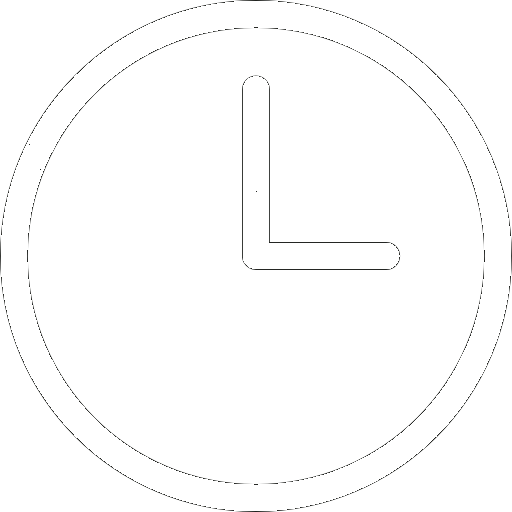
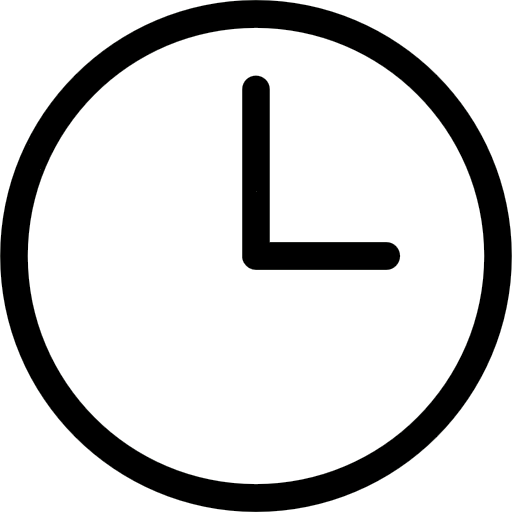
add: adicionando projetos; capi, myscradle

Changed region(s): [[0.0, 0.0, 1.0, 1.0], [0.4688, 0.125, 0.7812, 0.5312]]

diff --git a/src/pages/Home.vue b/src/pages/Home.vue
@@ -6,18 +6,9 @@ import fkIcon from '@/assets/framekore.png'
 import drawIcon from '@/assets/drawIcon.png'
 import bagIcon from '@/assets/bagIcon.png'
 import clockIcon from '@/assets/clockIcon.png'
+import capiIcon from '@/assets/capi.png'
+import mcIcon from '@/assets/myscradle.png'
 import { computed, ref } from 'vue';
-
-// interface Items {
-//     text?: string,
-//     haling?: 'center' | 'start' | 'end',
-//     color?: string | 'black' | 'white' | 'var(--color-text-contrast)' | 'var(--color-text)'
-// }
-
-// interface Title {
-//     text?: string,
-//     color?: string | 'black' | 'white' | 'var(--color-text-contrast)' | 'var(--color-text)'
-// }
 
 interface Project {
     id: string
@@ -38,14 +29,12 @@ const projects: Project[] = [
         id: 'p-01',
         name: 'PantsLife',
         icon: pantsIcon,
-        description: `
-                Meu primeito jogo de Plataforma 2D feito em dois dias para uma GameJam.
-        `,
+        description: "Meu primeito jogo de Plataforma 2D feito em dois dias para uma GameJam.",
         envolvidos: [{ name: 'Fkaique', github: 'Fkaique' }],
         links: [
-            { id: 'l-01', link: 'https://mysteriescradle.itch.io/life-in-pants', title: '<strong>Link 1</strong>: itch.io', },
-            { id: 'l-02', link: 'https://gx.games/pt-br/games/vpdabd/pants-life/', title: '<strong>Link 2</strong>: GXGames', },
-            { id: 'l-03', link: 'https://gx.games/pt-br/games/vpdabd/pants-life/', title: '<strong>Link 3</strong>: Projeto Github', }
+            { id: 'l-01', link: 'https://mysteriescradle.itch.io/life-in-pants', title: '<strong>Link 1</strong>: itch.io' },
+            { id: 'l-02', link: 'https://gx.games/pt-br/games/vpdabd/pants-life/', title: '<strong>Link 2</strong>: GXGames' },
+            { id: 'l-03', link: 'https://github.com/Fkaique', title: '<strong>Link 3</strong>: Github' }
         ]
     },
     {
@@ -100,44 +89,80 @@ const projects: Project[] = [
             { id: 'l-02', link: 'https://github.com/Fkaique/ClockFK/', title: '<strong>Link 2</strong>: Github' }
         ],
     },
+    {
+        id: 'p-06',
+        icon: capiIcon,
+        name: 'Capi JS',
+        description: `plataforma web de educação socioambiental e consumo consciente.`,
+        envolvidos: [
+            { name: 'Grizzlyess', github: 'Grizzlyess' },
+            { name: 'Fkaique', github: 'Fkaique' },
+            { name: 'LevySena', github: 'LevySena' },
+            { name: 'Agliandro', github: 'Agliandro' },
+            { name: 'OViniSA', github: 'OViniSA' }
+        ],
+        links: [
+            { id: 'l-01', link: 'https://github.com/Grizzlyess/Capi_JS', title: '<strong>Link 1</strong>: Github' },
+            { id: 'l-02', link: 'https://Grizzlyess.github.io/Capi_JS', title: '<strong>Link 2</strong>: Capi' }
+        ],
+    },
+    {
+        id: 'p-07',
+        icon: mcIcon,
+        name: 'Mysteries Cradle',
+        description: `plataforma web de um studio de jogos indie e universos originais.`,
+        envolvidos: [
+            { name: 'Fkaique', github: 'Fkaique' },
+            { name: 'OViniSA', github: 'OViniSA' }
+        ],
+        links: [
+            { id: 'l-01', link: 'https://github.com/MysCradle', title: '<strong>Link 1</strong>: Github' },
+            { id: 'l-02', link: 'https://MysCradle.studio', title: '<strong>Link 2</strong>: Mysteries Cradle' }
+        ],
+    },
 ]
 
 const pesquisa = ref('')
 
 const projectsFiltered = computed(() => {
     const termo = pesquisa.value.trim().toLowerCase()
-
     if (!termo) return projects
 
     return projects.filter(project => {
         const nome = project.name.toLowerCase()
         const descricao = project.description.toLowerCase()
 
-        const envolvidos = project.envolvidos?.map(e => ({
-            name: e.name.toLowerCase(),
-            github: e.github.toLowerCase()
-        })) || []
+        const envolvidos = project.envolvidos.map(e =>
+            `${e.name} ${e.github}`.toLowerCase()
+        )
+
+        const links = project.links.map(l =>
+            `${l.title} ${l.link}`.toLowerCase()
+        )
 
         return (
             nome.includes(termo) ||
             descricao.includes(termo) ||
-            envolvidos.some(e =>
-                e.name.includes(termo) ||
-                e.github.includes(termo)
-            )
+            envolvidos.some(e => e.includes(termo)) ||
+            links.some(l => l.includes(termo))
         )
     })
 })
 
-const dateNow = new Date()
+// idade reativa sem mudar nada visual
 const dateNasc = new Date('2005-01-18')
-const idade = Math.floor((dateNow.getTime() - dateNasc.getTime()) / (1000 * 60 * 60 * 24 * 365.25))
 
+const idade = computed(() => {
+    const now = new Date()
+    return Math.floor((now.getTime() - dateNasc.getTime()) / (1000 * 60 * 60 * 24 * 365.25))
+})
 </script>
 
 <template>
     <div class="card-home-apresentation">
-        <Card :image="perfil" alt="Fkaique, engenheiro de software e desenvolvedor de jogos indie. Close-up de Fkaique com cabelo afro volumoso, fones de ouvido brancos no pescoço e camiseta azul, olhando confiantemente para a câmera. Imagem de identidade visual para portfólio técnico." bg-color="var(--color-background)" halign="center"></Card>
+        <Card :image="perfil"
+            alt="Fkaique, engenheiro de software e desenvolvedor de jogos indie. Close-up de Fkaique com cabelo afro volumoso, fones de ouvido brancos no pescoço e camiseta azul, olhando confiantemente para a câmera. Imagem de identidade visual para portfólio técnico."
+            bg-color="var(--color-background)" halign="center"></Card>
         <div class="apresentation">
             <pre class="FKLanguage">
 <strong class="color-secondary">Eu</strong> = {
@@ -150,7 +175,7 @@ const idade = Math.floor((dateNow.getTime() - dateNasc.getTime()) / (1000 * 60 *
             <pre class="FKLanguage">
 <strong class="color-secondary">Habilidades</strong> = [
     "HTML", "CSS", "TypeScript",
-    "Vue", "ReactJs"
+    "Vue", "ReactJs",
     "GML", "GDScript", "C#"
 ]
         </pre>
@@ -165,6 +190,7 @@ const idade = Math.floor((dateNow.getTime() - dateNasc.getTime()) / (1000 * 60 *
             </div>
 
         </div>
+        
         <div class="card-home">
             <Card class="card-project" v-for="project in projectsFiltered" :key="project.id"
                 box-shadow="0px 4px 10px var(--color-background)" bg-color="var(--color-background)"
@@ -211,7 +237,7 @@ const idade = Math.floor((dateNow.getTime() - dateNasc.getTime()) / (1000 * 60 *
     font-family: var(--font-mono);
 }
 
-pre >* {
+pre>* {
     display: inline;
 }
 
@@ -300,7 +326,7 @@ pre >* {
 
 .card-home {
     display: grid;
-    grid-template-columns: repeat(auto-fill, minmax(min(60%, 280px), 1fr));
+    grid-template-columns: repeat(auto-fill, minmax(min(60%, 300px), 1fr));
     gap: 20px;
     width: 100%;
 }

diff --git a/src/components/navbar.vue b/src/components/navbar.vue
@@ -33,7 +33,6 @@ onUnmounted(() => {
         <nav class="navbar">
             <div class="linkMain">
                 <!-- <router-link class="link" to="/galeria">Galeria</router-link> -->
-                 <a class="link" href="https://myscradle.github.io/galeria/">Galeria</a>
                 <router-link class="link" to="/domitorio">Dormitório</router-link>
             </div>
 
@@ -51,7 +50,6 @@ onUnmounted(() => {
             <div class="mudar-tema-sus" @click="mudarTema">Mudar Tema</div>
             <router-link class="link-sus" to="/domitorio">Dormitório</router-link>
                  <a class="link-sus" href="https://myscradle.github.io/galeria/">Galeria</a>
-            <!-- <router-link class="link-sus" to="/galeria">Galeria</router-link> -->
         </div>
     </div>
 </template>

diff --git a/src/components/card.vue b/src/components/card.vue
@@ -67,6 +67,12 @@ const props = withDefaults(defineProps<{
     align-items: center;
 }
 
+.iconImg {
+    background-color: var(--color-branco);
+    padding: 2px;
+    border-radius: 5px;
+}
+
 .headCard img {
     width: 30px;
     height: 30px;
